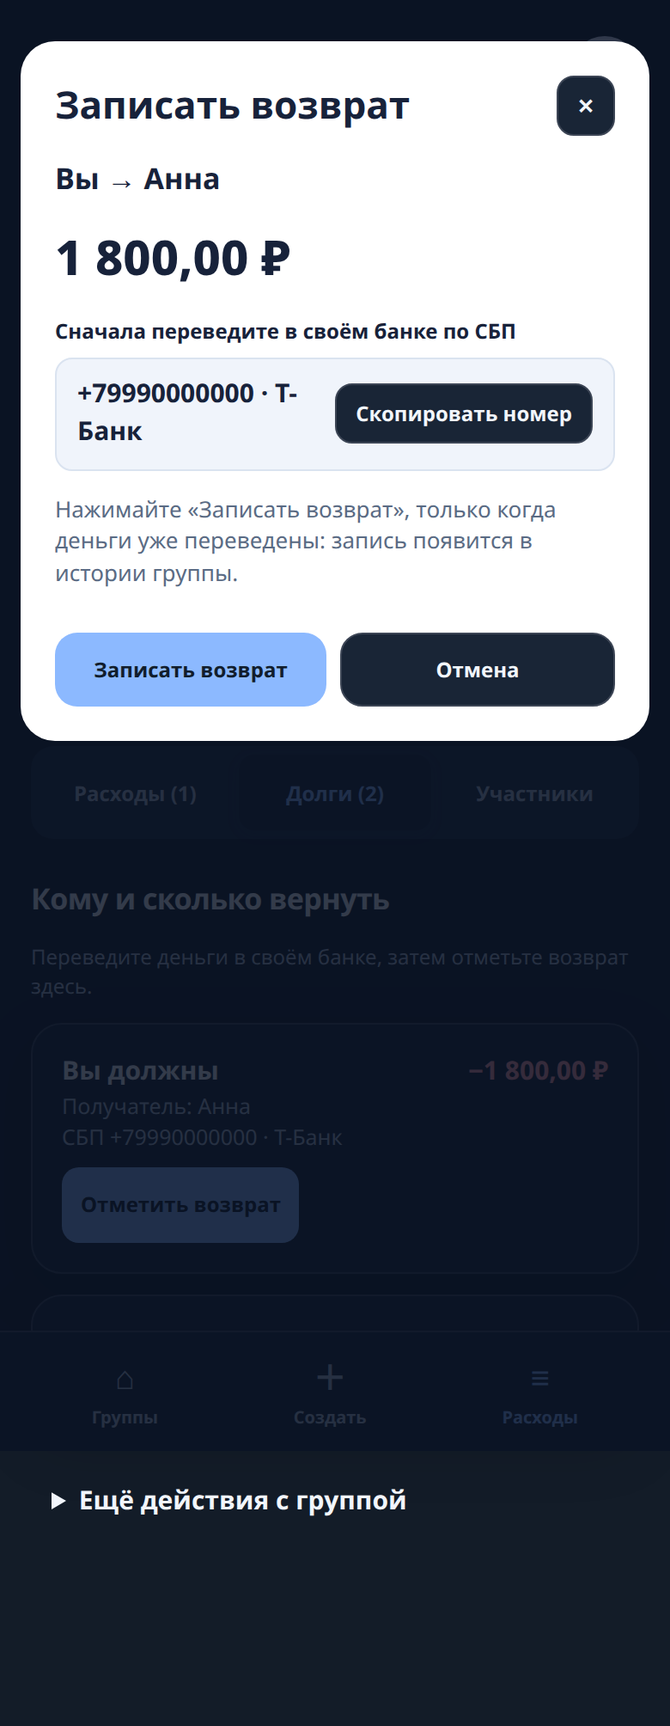
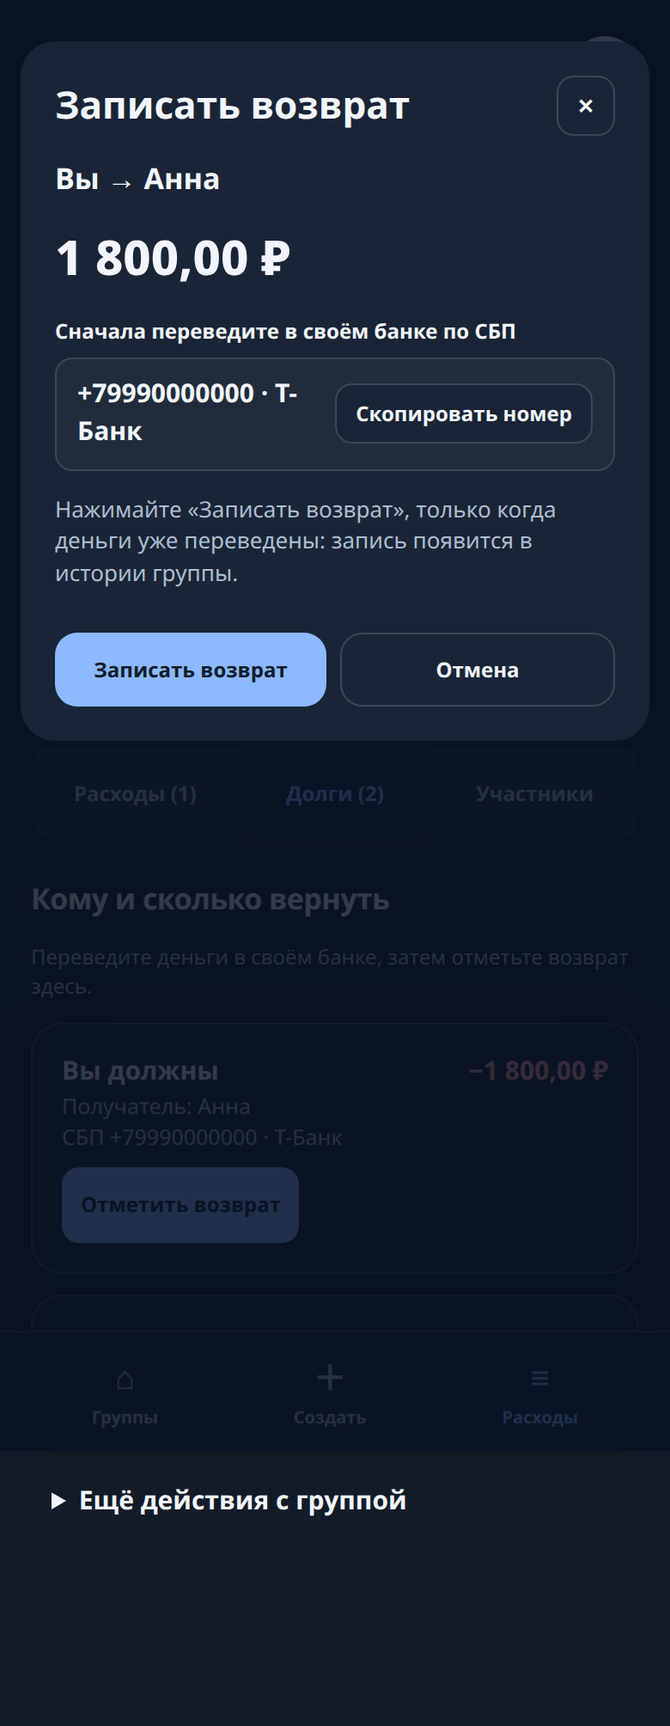
UX redesign round 5b: nowrap sums, themed settle modal, DESIGN.md
Visual touches on top of round 5a. money()/signedMoney() use a
non-breaking space before the currency and the history share line wraps
the sum in .sum (white-space:nowrap): the number and ₽ never split, the
whole sum moves to the next line when cramped (long titles, 1 234 567,89
₽, 320/390 px; the 'Изменить' button stays visible and focusable).
The settle modal panel, SBP block and hint are bound to theme tokens
instead of fixed light colors (dark panel #192536, SBP #202c3c); system
Back and focus return re-verified. docs/ux-redesign/DESIGN.md added:
compact history and tabular-nums marked implemented, requirements
separated from confirmed checks, the demo invite described as a
synthetic scenario.

diff --git a/web/app.js b/web/app.js
@@ -18,10 +18,10 @@ try{if(lsGet('spliit.demoTheme')==='dark')document.documentElement.classList.add
 const CURRENCIES=['RUB','USD','EUR','CNY','TRY','THB','AED','KZT','GEL','AMD'];
 const CURRENCY={RUB:'₽',USD:'$',EUR:'€',CNY:'¥',TRY:'₺',THB:'฿',AED:'د.إ',KZT:'₸',GEL:'₾',AMD:'֏'};
 const esc=x=>String(x??'').replace(/[&<>"']/g,c=>({'&':'&amp;','<':'&lt;','>':'&gt;','"':'&quot;',"'":'&#39;'}[c]));
-const money=(v,code='RUB')=>(Number(v||0)/100).toLocaleString('ru-RU',{minimumFractionDigits:2,maximumFractionDigits:2})+' '+(CURRENCY[code]||code);
+const money=(v,code='RUB')=>(Number(v||0)/100).toLocaleString('ru-RU',{minimumFractionDigits:2,maximumFractionDigits:2})+' '+(CURRENCY[code]||code);
 // Signed amounts: debts are distinguished by words AND by the sign of the
 // sum (outgoing "−", incoming "+"). Zero is neutral — never green/red.
-const signedMoney=(v,code='RUB')=>{const n=Number(v||0);const abs=(Math.abs(n)/100).toLocaleString('ru-RU',{minimumFractionDigits:2,maximumFractionDigits:2});return (n<0?'−':n>0?'+':'')+abs+' '+(CURRENCY[code]||code)};
+const signedMoney=(v,code='RUB')=>{const n=Number(v||0);const abs=(Math.abs(n)/100).toLocaleString('ru-RU',{minimumFractionDigits:2,maximumFractionDigits:2});return (n<0?'−':n>0?'+':'')+abs+' '+(CURRENCY[code]||code)};
 // Russian plural for "перевод": 1 перевод, 2–4 перевода, 5+ переводов.
 const transferWord=n=>{const m=n%10,h=n%100;if(m===1&&h!==11)return 'перевод';if((m===2||m===3||m===4)&&h!==12&&h!==13&&h!==14)return 'перевода';return 'переводов';};
 const betaFree=()=>S.boot?.features?.betaFree===true;
@@ -159,7 +159,7 @@ function renderExpenses(d){return d.expenses.length?`<div class="expense-list">$
  const count=(e.paidFor||[]).filter(p=>p.shares>0).length;
  let shareLine='';
  if(e.isReimbursement)shareLine='<small>Возврат долга</small>';
- else{const mine=myShare(d,e);if(mine!==undefined)shareLine=`<small>На ${count} чел. · Ваша доля: ${money(mine,d.group.currencyCode)}</small>`;}
+ else{const mine=myShare(d,e);if(mine!==undefined)shareLine=`<small>На ${count} чел. · Ваша доля: <span class="sum">${money(mine,d.group.currencyCode)}</span></small>`;}
  return `<div class="expense expense-row"><div class="expense-icon">${e.isReimbursement?'⇄':'◈'}</div><div style="flex:1;min-width:0"><strong>${esc(e.title)}</strong><small>${esc(payer)} · ${fmtDate(e.expenseDate)}</small>${shareLine}</div><div class="amount">${money(e.amount,d.group.currencyCode)}${(e.createdByTgId===S.boot?.user?.id||d.isCreator)?`<div><button class="btn small ghost" data-action="${e.isReimbursement?'deleteExpenseDirect':'editExpense'}" data-id="${esc(e.id)}">${e.isReimbursement?'Удалить':'Изменить'}</button></div>`:''}</div></div>`}).join('')}</div>`:'<div class="card empty"><p>Расходов пока нет. Добавьте первый чек — Spleet сразу посчитает доли.</p><button class="btn primary" data-action="expense">Добавить первую трату</button></div>';}
 function renderBalances(data){
  const transfers=data.settlements||[];

diff --git a/web/style.css b/web/style.css
@@ -173,4 +173,10 @@ h1[tabindex='-1']:focus { outline: none; }
 .invite-points li::before{content:'✓';color:var(--good);font-weight:800;flex:none}
 .invite-meta{display:flex;gap:8px;flex-wrap:wrap}
 .invite-meta span{background:var(--app-soft);border-radius:99px;padding:5px 11px;font-size:12px;font-weight:750;color:var(--muted)}
+/* Round 5: nowrap sums, themed settle modal. */
+.sum{white-space:nowrap}
+.advanced-panel{background:var(--white);color:var(--ink)}
+.advanced-modal{color:var(--ink)}
+.settle-sbp{background:var(--app-soft);border-color:var(--border)}
+.settle-panel .form-hint{color:var(--muted)}
 .invite-note{text-align:center}

diff --git a/docs/ux-redesign/DESIGN.md b/docs/ux-redesign/DESIGN.md
@@ -1,0 +1,183 @@
+# Spleet — DESIGN.md
+
+_Статус: добавлен в PR #1 как `docs/ux-redesign/DESIGN.md` (5-й заход, 2026-11-05). Этот файл — рабочая копия; канон — копия в репозитории._
+
+_Источник истины: `web/style.css` (182 строки, состояние после 5-го захода UX-редизайна, draft PR #1 в `spliit-ux-handoff`), `web/app.js` (`applyTelegramTheme`, строка 685), `web/native-ux.js` (строки 24–31). Все значения ниже — из этих файлов, а не придуманы. Предложения помечены «предложение», остальное — фиксация текущего состояния._
+
+_Формат — по образцу GradientDeck DESIGN.md: палитра с именованными цветами, типографика, радиусы, тени, движение, правила do / don't. Цель файла — чтобы следующий заход (человек или агент) не подбирал цвета заново и не ломал тёмную тему._
+
+## 0. Принципы
+
+1. **Деньги — это доверие и читаемость, а не вау-эффект.** Никаких WebGL-аврор, частиц и тяжёлого стекла в Mini App (вывод разбора GradientDeck от 2026-11-05).
+2. **Telegram-native прежде всего.** Цвета, safe-area и BackButton берутся из `themeParams`, а не из жёстких значений.
+3. **Долг всегда подписан и направлен.** Знак и слова вместе: «Вы должны −1 800,00 ₽» / «Вам должны +1 800,00 ₽»; между участниками — без знака, направление словами («Иван → Анна»); ноль — «Долгов нет · 0,00 ₽». (Зафиксировано в 1-м заходе PR #1.)
+4. **Суммы — tabular-nums, копейки — всегда.** Доли считаются только общим `splitExpense` (Hamilton); запасного округления в демо нет (3-й заход). `tabular-nums` — везде, где показана сумма, включая историю (с 4-го захода, см. §3).
+5. **Ошибка не исчезает сама.** Тосты об ошибках — без автоскрытия, до тапа; информационные — 3,5 с.
+
+## 1. Палитра
+
+### Светлая тема (`:root`, `style.css:1`)
+
+| Токен | Значение | Роль | Контраст |
+|---|---|---|---|
+| `--bg` | `#f4f6fa` | фон страницы | — |
+| `--ink` | `#13203a` | основной текст | 14,98:1 на `--bg` ✅ |
+| `--muted` | `#697790` | вторичный текст | **4,18:1 на `--bg` ⚠ ниже AA 4,5**; 4,52:1 на белой карточке (проходит впритык) |
+| `--white` | `#fff` | карточки, поля | 16,21:1 с `--ink` ✅ |
+| `--brand` | `#4766e8` | акцент, ссылки, primary | 4,85:1 на белом ✅; белый текст на нём — 4,85:1 ✅ |
+| `--brand2` | `#3047ae` | тёмный акцент (аватар, кнопки hero) | 7,96:1 на белом ✅ |
+| `--border` | `#e4e9f2` | границы | — |
+| `--good` | `#14856a` | «вам должны» | 4,57:1 на белом ✅ |
+| `--bad` | `#cd4d59` | «вы должны» | 4,37:1 на белом ⚠ чуть ниже AA 4,5 для мелкого текста |
+| `--r` | `18px` | радиус карточек | — |
+| `--shadow` | `0 12px 35px #2434580d` | тень карточек | — |
+
+Дополнительные токены (`style.css:80`): `--app-tint: #eaf1fd` (первая метрика в сводке), `--app-soft: #f1f5fb` (табы, иконки, переключатель входа), `--on-brand: #fff`.
+
+### Тёмная тема (`.tg-dark`, `style.css:108`)
+
+| Токен | Значение | Роль | Контраст |
+|---|---|---|---|
+| `--bg` | `#131c28` | фон | — |
+| `--ink` | `#f2f6fc` | текст | 15,81:1 ✅ |
+| `--white` | `#192536` | карточки | — |
+| `--muted` | `#aebdd0` | вторичный текст | 8,98:1 ✅ |
+| `--brand` | `#8cb9ff` | акцент | 7,72:1 на карточке ✅ |
+| `--on-brand` | `#111d2c` | текст на акценте | 8,49:1 ✅ |
+| `--good` | `#68d9ae` | «вам должны» | 8,92:1 ✅ |
+| `--bad` | `#ff9eaa` | «вы должны» | 7,89:1 ✅ |
+| `--app-tint` | `#263a53` | первая метрика | — |
+| `--app-soft` | `#202c3c` | табы, иконки | — |
+
+_Контрасты посчитаны 2026-11-05 по WCAG-формуле из фактических hex-значений файла. Вывод: тёмная тема по контрасту сильнее светлой; единственные слабые места светлой — `--muted` на `--bg` (4,18) и `--bad` на белом (4,37)._
+
+### Градиенты (единственное место, где они допустимы)
+
+- Hero: `linear-gradient(125deg, #243d9e, #596cf0 70%, #8b8cef)` (минифицированная строка 1 `style.css`); в тёмной теме — `linear-gradient(130deg, #243d7d, #4754ba)` (`style.css:11`).
+- Analytic-hero: `linear-gradient(130deg, #292e79, #6b45b0)`; полоса аналитики — `linear-gradient(90deg, #785ced, #42a3cc)`.
+- Приглашение (4-й заход): статичный mesh-градиент за названием группы — `radial-gradient(120% 70% at 12% 0%, #cfe0ff …)`, `radial-gradient(90% 60% at 92% 8%, #c8f2e0 …)`, `radial-gradient(130% 90% at 50% 115%, #e6efff …)` поверх `linear-gradient(180deg, #f3f7ff, #eef3fb)`; в тёмной теме — те же пятна тёмными (`#1d3355`, `#173a30`, `#16283f` на `#131c28`–`#101825`). Только фон: всё, что читается и нажимается, — на сплошной карточке.
+- Правило: градиент — только фон hero/аналитики, никогда фон текста, кнопок и сумм. Кандидат на мягкий акцент баннера группы — готовые CSS-градиенты **webgradients / uiGradients (MIT)**, ноль JS (из разбора подборки).
+
+## 2. Telegram-маппинг
+
+`app.js:685` (`applyTelegramTheme`, подписка на `themeChanged`):
+
+- `themeParams.bg_color` → `--bg`
+- `themeParams.secondary_bg_color` → `--white`
+- `native-ux.js:24–31`: `bg_color` → `setHeaderColor` + `setBackgroundColor`
+
+Без `themeParams` — оставить значения по умолчанию, не хардкодить `#0f172a` (ошибка 2-го захода, исправлена в `native-ux.js`).
+
+Safe-area: `max(env(safe-area-inset-*), var(--tg-inset-*))` для `.page` и `.footbar` (`style.css:109–111`).
+
+## 3. Типографика
+
+- Шрифт: `Inter, system-ui, -apple-system, BlinkMacSystemFont, 'Segoe UI', sans-serif`; базовый размер `15px/1.45`.
+- Заголовок экрана: `31px`, `letter-spacing: -1.2px`, `line-height: 1.13`; подзаголовок: `24px/800/-0.9px`; заголовок секции: `17px/-0.3px`; eyebrow: `10px/700/.13em/uppercase`.
+- Суммы: поле суммы в форме — `27px/750`, сумма возврата — `28px/800`, `font-variant-numeric: tabular-nums` — везде, где показана сумма: история (`.amount`), долги (`.debt-amount`), метрики сводки, поле суммы в форме, сумма возврата, доли в превью (`#allocation-preview li strong`). Исправлено в 4-м заходе: раньше у истории `.amount` `tabular-nums` не было — черновик ошибочно писал «всегда».
+- Сумма — одно неделимое целое (5-й заход): число и валюта не разрываются. `money()`/`signedMoney()` ставят неразрывный пробел перед валютой, а сумма в строке «Ваша доля» дополнительно обёрнута в `.sum` (`white-space:nowrap`). Если сумме тесно, она целиком переходит на следующую строку — ₽ никогда не остаётся один.
+- Мелкий текст: `11–12px` — только `--muted` на белом (см. §1: на `--bg` контраст не проходит AA).
+- Кнопки: `750`, primary — белый текст на `--brand`; danger — `#9e2e45` на `#feecef`.
+
+## 4. Форма: радиусы, тени, движение
+
+- Радиусы: карточка `18px` (`--r`), группа `18px`, метрика `16px`, кнопка `13px`, поле `12px`, таб `9px`, бейдж `7px`, pill `99px`.
+- Тени: карточка `0 12px 35px #2434580d`; hero `0 18px 40px #3853d126`; активный таб `0 2px 8px #2d399019`.
+- Движение: кнопки — `filter .13s` на hover + короткий отклик на нажатие (`:active` — `scale(.98)`, 0,1 с, с 4-го захода); окно возврата появляется плавно (оверлей fade 0,18 с, панель — подъём 10 px + fade 0,18 с); при `prefers-reduced-motion` анимации отключены. Никаких параллаксов, шейдеров и анимаций появления — деньги не терпят шума.
+- Фокус: `:focus-visible` — `2px solid var(--brand)`, `outline-offset: 3px`; фокус поля — `border #6d84ff` + `box-shadow 0 0 0 3px #dfe6ff`.
+
+## 5. Компоненты и состояния
+
+- **Первый экран группы** — история расходов (вариант A); вариант B — только в демо для сравнения (переключатель «Первый экран: История / Расчёты», выбор в `localStorage`).
+- **Приглашение** (4-й заход, только демо `?demoInvite=1`) — СИНТЕТИЧЕСКИЙ СЦЕНАРИЙ, не настоящий join-поток: демо-`bootstrap` возвращает выдуманное приглашение («Выходные у моря», приглашает Анна, RUB, 3 участника), реальный `viewJoin`/`participant_sync` не тронуты. Mesh-градиент за названием группы; карточка: три строки «что даёт вступление», пилюли с валютой и числом участников, одна primary-кнопка «Присоединиться к группе» (открывает настоящую форму вступления).
+- **Строка траты в компактном списке** (4-й заход, Kobbe) — «На 3 чел. · Ваша доля: 1 800,00 ₽»; возвраты — «Возврат долга». Карточки остаются сводке, важным состояниям и пустой группе. Сумма в строке — неделимое целое (см. §3, 5-й заход).
+- **Контрольная строка** — «Распределено: X из Y» + диагностика недостачи («Не хватает: 4,01 ₽»).
+- **Сводка при нескольких получателях** — общий долг и число переводов («Вы должны −3 600,00 ₽ · 2 перевода»); имена и суммы — только во вкладке «Долги».
+- **Окно возврата** — модалка вместо `window.confirm`: «Вы → Анна», сумма, СБП + «Скопировать номер», кнопка «Записать возврат», рядом пояснение, что перевод выполняется в банке; Back/Esc/Отмена не отправляют запрос. Панель и блок СБП привязаны к токенам темы (5-й заход): фон панели — `var(--white)`, текст — `var(--ink)`, блок СБП — `var(--app-soft)` с границей `var(--border)`, хинт — `var(--muted)`; в тёмной теме панель тёмная, а не белая.
+- **Статус сохранения** — четыре разных состояния, не одно «Не сохранено»: явный отказ (причина + поля сохранены), потерянный ответ («Не удалось проверить, сохранилась ли трата» + кнопка проверки, тот же ID при повторе), прежняя версия при проверке правки (5-й заход: проверка сравнивает содержимое — название, сумму в копейках, плательщика, `splitMode`, доли по участникам — а не только ID; если найдена старая версия, форма остаётся открытой), «сохранено, но список не обновился» (баннер «Трата сохранена» + «Открыть группу»). Сетевой сбой распознаётся по `type`/`code` ошибки, а не по языку её текста (5-й заход).
+- **Пустые состояния** — всегда с явным следующим действием (пустая группа, просроченное приглашение, отказ сохранения).
+- **Тёмная тема в демо** — кнопка ☾/☀; в Telegram — только из `themeParams`.
+
+## 6. Do / Don't
+
+- ✅ Долг — текстом И знаком; направление — словами.
+- ✅ Суммы — tabular-nums, копейки всегда, доли — только `splitExpense`.
+- ✅ Сумма — неделимое целое: число и ₽ не разрываются (NBSP + `.sum`).
+- ✅ Проверка сохранения сравнивает содержимое правки, а не только ID.
+- ✅ Ошибка — с видимым ✕, до тапа пользователя.
+- ✅ Цвета — только через токены §1; новый цвет — сначала в таблицу.
+- ❌ Не использовать `--muted` для мелкого текста на `--bg` / `--app-soft` (контраст 4,18).
+- ❌ Не использовать `--bad` мелким кеглем на белом (4,37).
+- ❌ Не хардкодить hex вне `:root` / `.tg-dark` — см. §7.
+- ❌ Не добавлять градиенты, стекло, частицы, WebGL в экраны денег.
+- ❌ Не брать шрифты/токены чужих брендов из GradientDeck целиком — только систему (токены, правила); файлы там — реконструкции, лицензионных страниц нет.
+
+## 7. Долги файла (что чинить следующим заходом)
+
+1. **Хардкоды вне токенов** — hero-градиент, `#feecef/#9e2e45` (danger), `#6d84ff/#dfe6ff` (фокус), `#273c76` (тост), `#f0f3fb/#e9edf8` (кнопки/табы), `#fff` в `.analytic-hero`. Собрать в токены §1. Исправлено в 5-м заходе: панель модалки, блок СБП и хинт окна возврата привязаны к токенам; `tabular-nums` истории — в 4-м.
+2. **Тёмная тема неполная** — `.tg-dark` переопределяет часть компонентов через `--white`, но `.advanced-panel`, `.analytic-hero` и ряд фонов остаются светлыми/фиксированными. Проверить каждый экран в тёмной теме Telegram, а не только в демо. Замечено в 5-м заходе: `--border` в `.tg-dark` не переопределён и остаётся светлым `#e4e9f2` — так ведут себя все компоненты (список, карточки, блок СБП), это единообразно, но границу стоит завести в тёмную тему отдельно.
+3. **Контраст** — затемнить `--muted` светлой темы (например, до `#5b6a84`, пересчитать до ≥4,5 на `--bg`) или использовать его только на белом; `--bad` — чуть темнее для мелкого текста.
+4. **Предложение (не сделано): radix-ui/colors (MIT)** — 12-ступенчатые шкалы светлая/тёмная вместо ручного подбора токенов под `themeParams`; ложится на уже заведённые токены без смены имён.
+5. **Предложение (не сделано): webgradients / uiGradients (MIT)** — один мягкий градиент на баннер группы вместо текущего плоского `#f2f5ff`.
+
+## 8. Как пользоваться файлом
+
+- Новый экран: сначала выбрать токены из §1–§4, потом верстать; новый цвет без записи в §1 — не коммитить.
+- Проверка: `npm run build` (зелёный до/после 5-го захода); визуально — 320/390/430 px, светлая + тёмная тема Telegram, Tab-порядок и `:focus-visible`.
+- OFELIYA-вариант этого файла — отдельно, из атласа (`ofeliya-atlas-playability-deep-research.md`: иерархия value, сигнальные цвета `danger 0xff3e5f` / `rna 0x86ffaa`, deltaE 80,6) — не смешивать с этим файлом: у игры другая система.
+
+## 9. Четвёртый заход (2026-11-05, макет трёх экранов)
+
+Решения захода, зафиксированные в этом файле:
+
+- История — компактный список (Kobbe): один контейнер, строки с разделителем 1 px, padding 12 px, иконка 36 px. Карточки — только сводке, важным состояниям и пустой группе.
+- Приглашение — статичный mesh-градиент только за названием группы; текст и кнопки — на сплошной карточке. Живых переливов и WebGL нет.
+- `tabular-nums` — теперь действительно везде, где показана сумма (§3): в 4-м заходе добавлен истории (`.amount`) и долям в превью. До этого черновик ошибочно утверждал «всегда».
+- Движение — press-отклик кнопок и плавное появление модалки (§4); `prefers-reduced-motion` отключает анимации.
+- Файл по-прежнему не в PR #1 — решение Mark не принято.
+
+## 10. Пятый заход (2026-11-05, дефекты сохранения + штрихи)
+
+Решения захода, зафиксированные в этом файле:
+
+- **Проверка сохранения — по содержимому, не по ID** (§5): `expenseMatchesPayload` сравнивает название, сумму в копейках, плательщика, `splitMode` и доли по участникам (без учёта порядка). Найдена старая версия — новый статус «прежняя версия», форма остаётся открытой. Неподтверждённый результат всегда трактуется как неподтверждённый, а не как успех.
+- **Сетевой сбой — по типу ошибки, не по тексту** (§5): обёртка `Serverless.call` передаёт `type`/`code` в обработчик; `isNetworkError` смотрит на них в первую очередь, совпадение по тексту — только fallback. Локализованный «Связь прервана» показывает «Не удалось проверить…», а не «Трата не сохранена».
+- **Сумма — неделимое целое** (§3): NBSP перед валютой в `money()`/`signedMoney()` + `.sum` (`white-space:nowrap`) в строке «Ваша доля». Длинное название и крупная сумма (1 234 567,89 ₽) проверены на 320 и 390 px; кнопка «Изменить» остаётся видимой и фокусируемой.
+- **Окно возврата — в теме** (§5): панель, блок СБП и хинт привязаны к токенам; в тёмной теме панель тёмная (`#192536`), блок СБП — `#202c3c`. Системный «Назад» и возврат фокуса перепроверены.
+- **Демо-приглашение — синтетический сценарий** (§5): явно помечено как мок с выдуманными данными, а не настоящий join-поток.
+- Файл добавлен в PR #1 как `docs/ux-redesign/DESIGN.md` — решение Mark от 2026-11-05.
+
+## 11. Требования и подтверждённые проверки
+
+Этот раздел отделяет то, что файл ТРЕБУЕТ, от того, что ПРОВЕРЕНО. Требование без проверки — намерение; проверка без требования — случайность.
+
+### 11.1 Требования (правила файла)
+
+| № | Требование | Где |
+|---|---|---|
+| R1 | Долг — текстом И знаком; направление — словами; ноль — нейтрально | §0.3, §5 |
+| R2 | Суммы — tabular-nums, копейки всегда, доли — только общий `splitExpense` | §0.4, §3 |
+| R3 | Сумма — неделимое целое: число и ₽ не разрываются | §3, §6 |
+| R4 | Ошибка не исчезает сама; явный отказ ≠ потерянный ответ ≠ прежняя версия | §0.5, §5 |
+| R5 | Проверка сохранения сравнивает содержимое правки, а не только ID | §5, §10 |
+| R6 | Сетевой сбой определяется по типу ошибки, а не по языку текста | §5, §10 |
+| R7 | Цвета — только через токены §1; градиент — только фон hero/аналитики/приглашения | §1, §6 |
+| R8 | Демо-приглашение — синтетический сценарий, не настоящий join-поток | §5, §10 |
+| R9 | Никаких WebGL/частиц/стекла на экранах денег | §0.1, §6 |
+
+### 11.2 Подтверждённые проверки (2026-11-05, 5-й заход)
+
+Запуск: `npm run build`, затем `python -m http.server 8000 --bind 127.0.0.1 --directory dist`, скрипты из `~/workspace/spleet-shots/`. Единственная ошибка консоли во всех прогонах — предсуществующий 404 `/favicon.ico`.
+
+| Проверка | Команда | Результат |
+|---|---|---|
+| Демо: дефекты сохранения + визуал | `node shots-round5.mjs` | 51/51 |
+| Симуляция Telegram: обёртка Serverless + Back + тема | `node shots-round5-tg.mjs` | 18/18 |
+| Регрессия 2-го захода | `node shots-round2.mjs` | 34/34 |
+| Регрессия 3-го захода (демо) | `node shots-round3.mjs` | 35/35 |
+| Регрессия 3-го захода (TG) | `node shots-round3-tg.mjs` | 21/21 |
+| Регрессия 4-го захода (демо) | `node shots-round4.mjs` | 37/37 |
+| Регрессия 4-го захода (TG) | `node shots-round4-tg.mjs` | 14/14 |
+| Реальный WebView на телефоне | — | НЕ ПРОВЕРЕН — только демо-переключатель и симуляция; шаги ручной проверки — в `docs/ux-redesign/README.md` |
+
+Скриншоты 5-го захода: `docs/ux-redesign/after/` 43–45, `before/` 43–44 (до/после на 320/390 px, светлая + тёмная тема). Кадры: 43 — история с длинным названием и крупной суммой; 44 — окно возврата в обеих темах; 45 — проверка правки (прежняя версия) и тёмная модалка через `themeParams`.

diff --git a/docs/ux-redesign/README.md b/docs/ux-redesign/README.md
@@ -501,3 +501,129 @@ none`) в обеих темах; без флага демо обычное; «П
   а не сам шейдер: живых переливов и WebGL нет и не планируется.
 - Строка 6 аудита второго мнения (имя/место уже состоящего участника)
   по-прежнему не доделывалась. Тексты бота не переносились.
+
+## Пятый заход — два дефекта сохранения, визуальные штрихи, DESIGN.md
+
+Два отдельных коммита поверх `a5554872` (проверенный HEAD 4-го захода):
+
+- **5a** — `5da43eb4ecdce25ba18d68998e23447a44a42290` («verify edit saves by
+  content, preserve network error type»): два воспроизведённых дефекта
+  сохранения, только `web/app.js`.
+- **5b** — визуальные штрихи + `DESIGN.md` (см. ниже).
+
+### 1. Проверка правки — по содержимому, а не по ID
+
+Дефект: после потери ответа кнопка «Проверить, сохранилась ли трата»
+искала запись по ID. При редактировании этот ID уже существует: если
+правка не дошла, проверка находила старую версию, закрывала форму и
+ложно показывала «Трата сохранена». Исправление:
+`expenseMatchesPayload` сравнивает сохранённую запись с отправленной
+правкой — название, сумму в копейках, плательщика, `splitMode` и доли по
+участникам (без учёта порядка). Найдена старая версия или результат
+нельзя подтвердить однозначно — новый статус «прежняя версия», форма и
+введённые данные остаются. Успех — только после подтверждения изменений.
+Демо-хуки (одноразовые, только в демо): `?demoFail=lostEditBefore`
+(обрыв до записи) и `?demoFail=lostEditAfter` (запись, потом обрыв).
+
+Приёмка (проверки D1a/D1b в `shots-round5.mjs`): обрыв до записи —
+в хранилище старые значения, форма открыта, статус «прежняя версия»;
+обрыв после записи — проверка находит новые значения, форма закрыта,
+тост «Трата сохранена», в истории одна строка с новыми данными.
+
+### 2. Тип сетевой ошибки сохраняется
+
+Дефект: обёртка `Serverless.call` оставляла только текст ошибки, и при
+`{type: 'NETWORK_ERROR', message: 'Связь прервана'}` форма писала
+«Трата не сохранена». Исправление: обёртка передаёт `type` и `code` в
+обработчик (`Error` с полями `.type`/`.code`); `isNetworkError`
+проверяет их в первую очередь, совпадение по тексту — только fallback.
+Демо-хуки: `?demoFail=networkLocalized` (локализованная сетевая ошибка)
+и `?demoFail=rejected` (явный отказ сервера). Дефект воспроизведён
+через настоящий путь `Serverless.call` в симуляции Telegram
+(`shots-round5-tg.mjs`, фейковый `Serverless` с внутристраничным
+хранилищем): до исправления локализованная ошибка показывала
+«Трата не сохранена», после — «Не удалось проверить, сохранилась ли
+трата». В обоих случаях поля сохраняются.
+
+### 3. Число и ₽ — вместе
+
+`money()`/`signedMoney()` ставят неразрывный пробел перед валютой, а
+сумма в строке «Ваша доля» дополнительно обёрнута в `.sum`
+(`white-space:nowrap`). Если сумме тесно, она целиком переходит на
+следующую строку. Проверено на 320 и 390 px: длинное название (60
+символов) + крупная сумма 1 234 567,89 ₽; кнопка «Изменить» видима,
+внутри вьюпорта и фокусируется. Кадр 43.
+
+### 4. Окно возврата и блок СБП — в теме
+
+Панель модалки (`background: var(--white)`, `color: var(--ink)`), блок
+СБП (`background: var(--app-soft)`, граница `var(--border)`), хинт
+(`color: var(--muted)`) привязаны к токенам вместо фиксированных
+светлых цветов. В тёмной теме панель тёмная (`#192536`), блок СБП —
+`#202c3c`. Системный «Назад» и возврат фокуса перепроверены (симуляция
+Telegram). Кадры 44 (демо-переключатель) и 45 (через `themeParams`).
+Замечено: `--border` в `.tg-dark` не переопределён и остаётся светлым
+`#e4e9f2` — так ведут себя все компоненты, это единообразно; отдельная
+тёмная граница — в долгах `DESIGN.md` (§7.2).
+
+### 5. DESIGN.md в PR
+
+`docs/ux-redesign/DESIGN.md` — актуальная копия черновика (рабочая
+копия — `~/workspace/your_files/spleet-DESIGN-draft.md`). В 5-м заходе:
+компактная история и `tabular-nums` зафиксированы как реализованные
+(4-й заход); требования отделены от подтверждённых проверок (§11:
+таблица R1–R9 и таблица проверок с командами и результатами);
+демо-приглашение описано как синтетический сценарий, а не настоящий
+join-поток (§5, §10); долги файла обновлены (исправленное убрано).
+
+### Скриншоты пятого захода
+
+- `before/43-history-two-*` — история до исправления переноса (₽ на
+  отдельной строке на 390 px); `after/43-history-long-*` — длинное
+  название + 1 234 567,89 ₽ после (320/390, светлая).
+- `before/44-settle-modal-*` и `after/44-settle-modal-*` — окно
+  возврата до/после привязки к теме (320/390 × светлая/тёмная).
+- `after/45-edit-check-old-version-390-light` — проверка правки после
+  обрыва до записи: статус «прежняя версия», форма открыта.
+- `after/45-tg-dark-modal-390` — тёмная модалка через `themeParams`.
+
+### Проверки пятого захода
+
+```text
+# сборка (до/после каждого коммита):
+npm run build
+# сервер (из корня репозитория, после npm run build):
+python -m http.server 8000 --bind 127.0.0.1 --directory dist
+# из ~/workspace/spleet-shots/ (Chromium headless shell 1187):
+node shots-round5.mjs        # демо: 51/51
+node shots-round5-tg.mjs     # симуляция Telegram: 18/18
+node shots-round3.mjs        # регрессия: 35/35
+node shots-round3-tg.mjs     # регрессия: 21/21
+node shots-round4.mjs        # регрессия: 37/37
+node shots-round4-tg.mjs     # регрессия: 14/14
+node shots-round2.mjs        # регрессия: 34/34
+```
+
+Дефекты сначала воспроизведены проверками на неисправленном коде:
+демо 29/51 (D1a ×4, перенос ₽ ×2, тема модалки ×14), симуляция 13/18
+(локализованная сетевая ошибка ×2, тёмная модалка ×3). После
+исправлений — все зелёные. Две ошибки найдены в самих проверках, а не
+в коде, и исправлены в скриптах с повторным прогоном: измерение
+переноса не учитывало `<span class="sum">` (совпадение с ведущим
+пробелом искалось не в том текстовом узле); проверка 36 из 3-го захода
+сравнивала долю с обычным пробелом вместо нормализации NBSP. В каждом
+прогоне единственная ошибка консоли — 404 `/favicon.ico` (было и до).
+
+### Что честно не сделано в пятом заходе
+
+- Реальный WebView не проверялся (нет телефона в этой сессии) — см.
+  шаги ручной проверки в третьем заходе. Обёртка `Serverless.call`
+  проверена через фейковый `Serverless` в симуляции, а не через
+  настоящий сервер Telegram: форма ошибки `{type, message}` — та же,
+  что передаёт настоящий `Serverless`, но живой сервер не вызывался.
+- Сравнение при проверке правки охватывает название, сумму, плательщика,
+  `splitMode` и доли (по брифу). Поля `notes`/`categoryId`/валютный
+  пересчёт не сравниваются: их отсутствие в ответе сервера не должно
+  ложно блокировать подтверждение.
+- Строка 6 аудита второго мнения (имя/место уже состоящего участника)
+  по-прежнему не доделывалась. Тексты бота не переносились.
